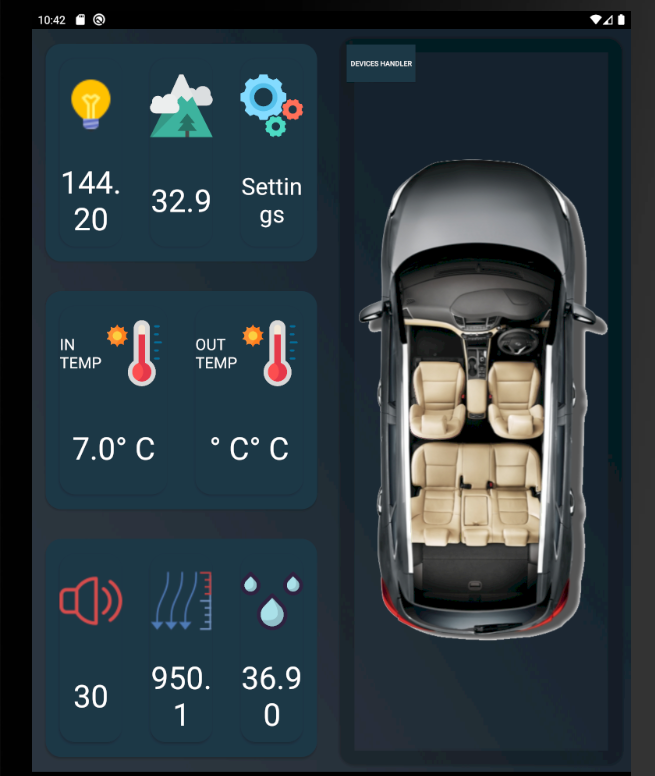
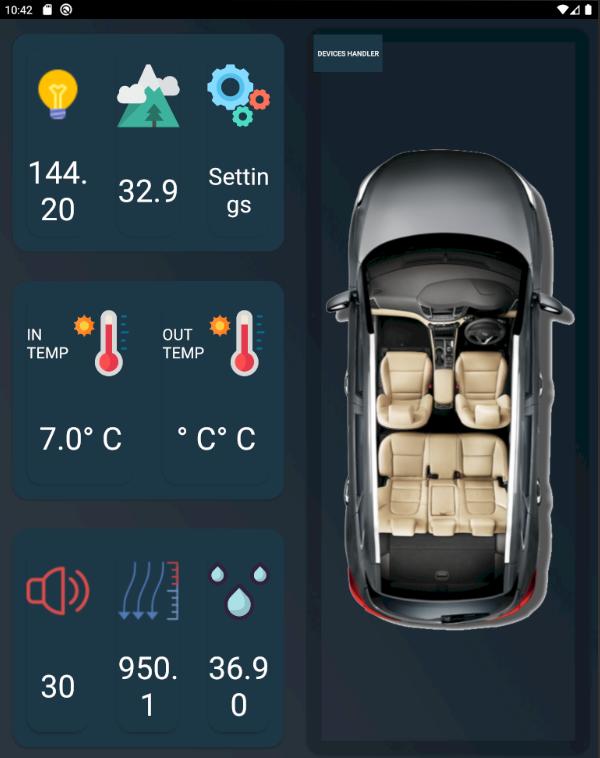
changed pic size

diff --git a/static/style.css b/static/style.css
@@ -84,7 +84,7 @@
 }
 
 #DashboardSide {
-    background-image: url("Dashboard.jpg");
+    background-image: url("Dashboard\ -\ Copy.jpg");
     min-height: 100%;
     height: 100%;
     background-size: cover;
